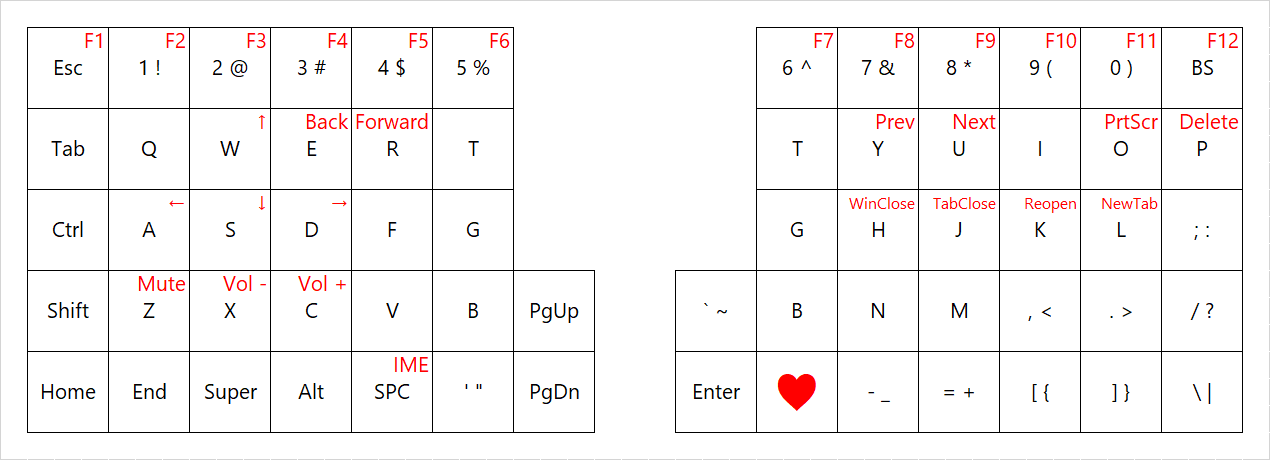
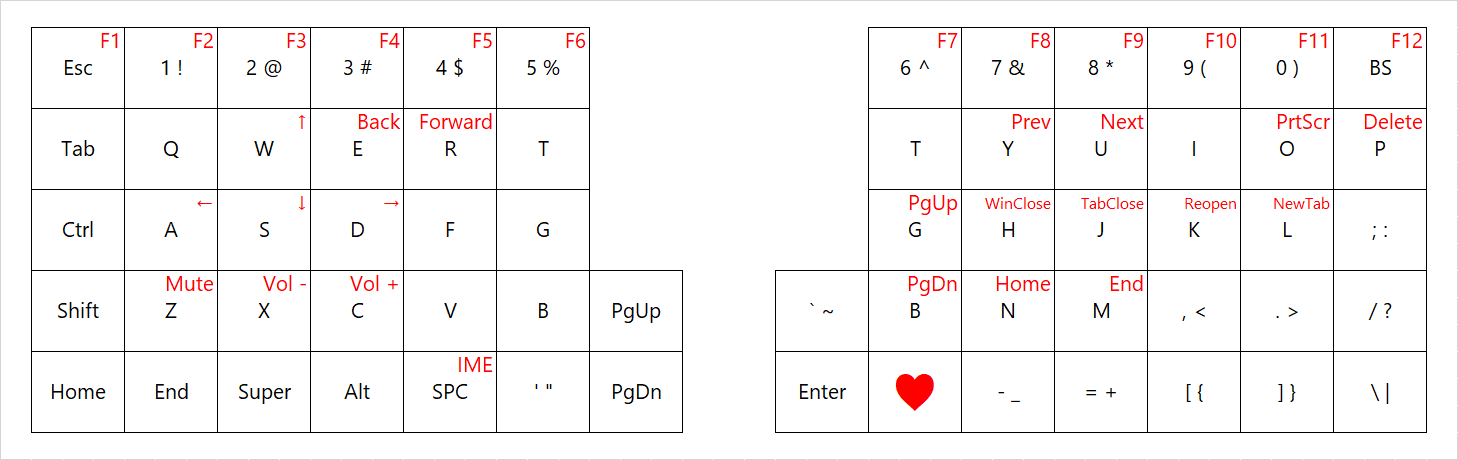
Layout update: PgUp/PgDn, Home/End

diff --git a/keyboards/helix/rev2/keymaps/default/keymap.c b/keyboards/helix/rev2/keymaps/default/keymap.c
@@ -68,8 +68,8 @@ const uint16_t PROGMEM keymaps[][MATRIX_ROWS][MATRIX_COLS] = {
   [_RAISE] = KEYMAP( \
       KC_F1,   KC_F2,   KC_F3,   KC_F4,   KC_F5,   KC_F6,                     KC_F7,   KC_F8,   KC_F9,   KC_F10,  KC_F11,  KC_F12, \
       _______, _______, KC_UP,   BACK,    FORWARD, _______,                   _______, PREV,    NEXT,    KC_9,    KC_PSCR, KC_DEL, \
-      _______, KC_LEFT, KC_DOWN, KC_RGHT, _______, _______,                   _______, WCLOSE,  TCLOSE,  REOPEN,  NEWTAB,  _______, \
-      _______, KC_MUTE, KC_VOLD, KC_VOLU, _______, _______, _______, _______, _______, _______, _______, _______, _______, _______, \
+      _______, KC_LEFT, KC_DOWN, KC_RGHT, _______, _______,                   KC_PGUP, WCLOSE,  TCLOSE,  REOPEN,  NEWTAB,  _______, \
+      _______, KC_MUTE, KC_VOLD, KC_VOLU, _______, _______, _______, _______, KC_PGDN, KC_HOME, KC_END,  _______, _______, _______, \
       _______, _______, _______, _______, IME,     _______, _______, _______, _______, _______, _______, _______, _______, _______ \
       )
 };
